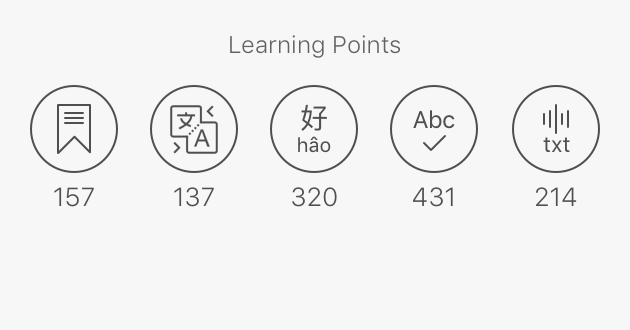
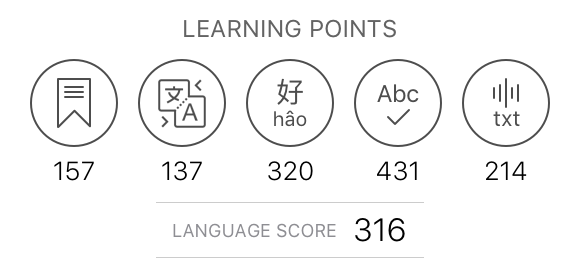
Profile View Updated.

diff --git a/prototype/index.html b/prototype/index.html
@@ -17,6 +17,8 @@
             </div>
         </div>
         <script src="noodlviewer.min.js"></script>
-<script>!function(){"use strict";var e=window.Application;try{var t=new e({runStandalone:!0});t.context.eventEmitter.once("frameEnd",function(){if(document.getElementById){var e=document.getElementById("loading");document.body.removeChild(e)}}),t.setData({"settings":{"canvasWidth":375,"canvasHeight":647,"fillMode":"aspectFit"},"components":[{"name":"/Main","nodes":[{"id":"2d3ccd33-f1ef-2dc5-3e1a-ca9d61cd222b","type":"Group","parameters":{"fill":"parent","sizeMode":"explicit","width":{"value":100,"unit":"%"},"alignX":"left"},"ports":[],"children":[{"id":"fa90ea16-1232-0437-deea-5dd6263d8247","type":"Rectangle","parameters":{"color":"#ffffff"},"ports":[],"children":[]},{"id":"6107ca00-e6b1-bda0-7a37-c1cd75b54717","type":"Scroll View","parameters":{},"ports":[],"children":[{"id":"f6447cc6-04d4-2d6c-0dbc-5b47a649827a","type":"Rectangle","parameters":{"height":{"value":64,"unit":"px"},"color":"#ffffff"},"ports":[],"children":[]},{"id":"4dddfe3e-480f-5664-8acb-3cfecf53d871","type":"Image","version":2,"parameters":{"fillMode":"aspectFit","sizeMode":"explicit","height":{"value":1040,"unit":"px"},"scaleY":1,"clipImage":true,"visible":true},"ports":[],"children":[]},{"id":"9efd95ae-1081-869c-8392-99c4ce6ad7d9","type":"Rectangle","parameters":{"height":{"value":49,"unit":"px"},"color":"#ffffff"},"ports":[],"children":[]}]},{"id":"3660b11b-8a8f-d42b-1298-c7afac4fdae1","type":"Group","version":2,"parameters":{"height":{"value":64,"unit":"px"},"clip":true,"visible":true},"ports":[],"children":[{"id":"dafd72b6-4a73-8ef9-9979-2f5331e38e8f","type":"Scroll View","parameters":{"blockTouch":false,"touchPropagation":false,"scrollToPosition.value":"","scrollToPosition.duration":0,"scrollEnabled":true},"ports":[],"children":[{"id":"fa3c1a90-0eb8-aa5f-32de-be4320c8fa48","type":"Image","version":2,"parameters":{"fillMode":"aspectFit","sizeMode":"explicit","height":{"value":1103.5,"unit":"px"},"scaleY":1,"clipImage":true,"image":"Img/Items Blurred.jpg","visible":true},"ports":[],"children":[]}]},{"id":"69348f9d-c067-fdc4-d726-1c242aa9925c","type":"Image","version":2,"parameters":{"image":"Img/Navigation Bar.png","sizeMode":"explicit","fillMode":"aspectFit","visible":true},"ports":[],"children":[]}]},{"id":"a766f7d1-cfdb-7647-75b1-189841b1a6d2","type":"Group","version":2,"parameters":{"height":{"value":49,"unit":"px"},"clip":true,"visible":true,"alignY":"bottom"},"ports":[],"children":[{"id":"2c4e8b69-a94e-39de-bff8-5c7b93aa087d","type":"Scroll View","parameters":{"blockTouch":false,"touchPropagation":false,"scrollToPosition.value":"","scrollToPosition.duration":0,"scrollEnabled":true},"ports":[],"children":[{"id":"fc56f349-c4c9-c74c-a0cb-d00e6640a8bd","type":"Image","version":2,"parameters":{"fillMode":"aspectFit","sizeMode":"explicit","height":{"value":1103.5,"unit":"px"},"scaleY":1,"clipImage":true,"image":"Img/Items Blurred.jpg","visible":true},"ports":[],"children":[]}]},{"id":"4b5757ce-233e-30cc-c95a-2e1895b5de74","type":"Image","version":2,"parameters":{"image":"Img/Tab Bar.png","sizeMode":"explicit","fillMode":"aspectFit","visible":true},"ports":[],"children":[]}]},{"id":"a867c6cb-1b8e-e1b5-815a-6ec453ce74fd","type":"/Profile View","parameters":{},"ports":[],"children":[]},{"id":"200d7c82-14ad-5297-cc92-e974401f478c","type":"Image","version":2,"parameters":{"image":"Img/Status Bar.png","sizeMode":"explicit","height":{"value":20,"unit":"px"},"fillMode":"aspectFit"},"ports":[],"children":[]}]},{"id":"1f97186e-9bf5-07fe-0e0c-535bb6f73f10","type":"String Selector","parameters":{"input 0":"Img/Items.jpg","input 1":"Img/Items Highlighted.jpg"},"ports":[{"name":"input 0","displayName":"Input 0","type":"string","plug":"input","group":"Inputs","index":3},{"name":"input 1","displayName":"Input 1","type":"string","plug":"input","group":"Inputs","index":4},{"name":"input 2","displayName":"Input 2","type":"string","plug":"input","group":"Inputs","index":5}],"children":[]},{"id":"3123b863-5a0e-b8be-6e6a-a05f01325b9b","type":"Value Changed","parameters":{},"ports":[],"children":[]},{"id":"6e84c28d-44fd-083c-04c3-600e1b538a17","type":"Expression","parameters":{"expression":"-x"},"ports":[{"name":"x","type":{"name":"number"},"plug":"input","index":2}],"children":[]},{"id":"e722cb04-934e-d75e-66ea-6fccedf82f51","type":"Expression","parameters":{"expression":"-x + y - 49"},"ports":[{"name":"x","type":{"name":"number"},"plug":"input","index":2},{"name":"y","type":{"name":"number"},"plug":"input","index":3}],"children":[]},{"id":"7d884370-bca9-592b-4661-dc3676908e75","type":"Screen Resolution","parameters":{},"ports":[],"children":[]},{"id":"54e4f929-5cf8-071c-cf9c-defcf16594be","type":"Switch","parameters":{},"ports":[],"children":[]}],"connections":[{"sourceId":"1f97186e-9bf5-07fe-0e0c-535bb6f73f10","sourcePort":"currentValue","targetId":"4dddfe3e-480f-5664-8acb-3cfecf53d871","targetPort":"image"},{"sourceId":"6107ca00-e6b1-bda0-7a37-c1cd75b54717","sourcePort":"scrollPosition","targetId":"3123b863-5a0e-b8be-6e6a-a05f01325b9b","targetPort":"value"},{"sourceId":"3123b863-5a0e-b8be-6e6a-a05f01325b9b","sourcePort":"valueChanged","targetId":"dafd72b6-4a73-8ef9-9979-2f5331e38e8f","targetPort":"scrollToPosition.do"},{"sourceId":"6107ca00-e6b1-bda0-7a37-c1cd75b54717","sourcePort":"scrollPosition","targetId":"6e84c28d-44fd-083c-04c3-600e1b538a17","targetPort":"x"},{"sourceId":"6e84c28d-44fd-083c-04c3-600e1b538a17","sourcePort":"result","targetId":"dafd72b6-4a73-8ef9-9979-2f5331e38e8f","targetPort":"scrollToPosition.value"},{"sourceId":"6107ca00-e6b1-bda0-7a37-c1cd75b54717","sourcePort":"scrollPosition","targetId":"e722cb04-934e-d75e-66ea-6fccedf82f51","targetPort":"x"},{"sourceId":"3123b863-5a0e-b8be-6e6a-a05f01325b9b","sourcePort":"valueChanged","targetId":"2c4e8b69-a94e-39de-bff8-5c7b93aa087d","targetPort":"scrollToPosition.do"},{"sourceId":"e722cb04-934e-d75e-66ea-6fccedf82f51","sourcePort":"result","targetId":"2c4e8b69-a94e-39de-bff8-5c7b93aa087d","targetPort":"scrollToPosition.value"},{"sourceId":"7d884370-bca9-592b-4661-dc3676908e75","sourcePort":"height","targetId":"e722cb04-934e-d75e-66ea-6fccedf82f51","targetPort":"y"},{"sourceId":"54e4f929-5cf8-071c-cf9c-defcf16594be","sourcePort":"state","targetId":"1f97186e-9bf5-07fe-0e0c-535bb6f73f10","targetPort":"index"},{"sourceId":"4dddfe3e-480f-5664-8acb-3cfecf53d871","sourcePort":"touch.tap","targetId":"a867c6cb-1b8e-e1b5-815a-6ec453ce74fd","targetPort":"Show"}],"ports":[],"roots":["2d3ccd33-f1ef-2dc5-3e1a-ca9d61cd222b"]},{"name":"/Profile View","nodes":[{"id":"d5b70079-84ca-4aed-245e-69016e6fea95","type":"Group","version":2,"parameters":{},"ports":[],"children":[{"id":"89c4ea67-0828-b1ad-a894-1879c85f198d","type":"Rectangle","parameters":{"color":"#000000","opacity":0},"ports":[],"children":[]},{"id":"4da60788-81cd-d628-18e5-8b5109a7f616","type":"Scroll View","parameters":{"sizeMode":"childWidth","alignX":"center","alignY":"top","y":524,"snap":"disabled"},"ports":[],"children":[{"id":"c41be94d-8309-040d-6fa3-8b27937853d8","type":"Rectangle","parameters":{"height":{"value":130,"unit":"px"},"opacity":0},"ports":[],"children":[]},{"id":"4e655fae-c655-90d8-8360-db191ee24d63","type":"Group","version":2,"parameters":{"alignY":"top","alignX":"left","sizeMode":"childSize"},"ports":[],"children":[{"id":"f09a9c3e-58d5-9482-744c-e9834848ff2e","type":"Image","version":2,"parameters":{"image":"Img/Profile View.jpg","sizeMode":"explicit","width":{"value":315,"unit":"px"},"height":{"value":744.5,"unit":"px"},"fillMode":"fill","blockTouch":false,"touchPropagation":false},"ports":[],"children":[]},{"id":"7ded2c0e-e4a9-82bc-d3b0-3997431f612a","type":"Scroll View","parameters":{"height":{"value":165,"unit":"px"},"scrollAxis":"0","clip":true,"snap":"everyItem"},"ports":[],"children":[{"id":"4e83a905-13bf-e492-282a-fceecd505df5","type":"Image","version":2,"parameters":{"image":"Img/Map.png","sizeMode":"explicit","fillMode":"aspectFill","width":{"value":100,"unit":"%"}},"ports":[],"children":[]},{"id":"95c27f35-4ff9-95fd-b6b6-6f77a1665c7e","type":"Image","version":2,"parameters":{"image":"Img/Learning Points.png","sizeMode":"explicit","fillMode":"aspectFill","width":{"value":100,"unit":"%"}},"ports":[],"children":[]}]},{"id":"c6adb02f-c4da-6224-39a0-9dc0585abe12","type":"Image","version":2,"parameters":{"image":"Img/Thumbnail.png","sizeMode":"childSize","scaleX":0.5,"scaleY":0.5,"pivotX":{"value":50,"unit":"%"},"pivotY":{"value":-50,"unit":"%"},"alignX":"center","y":165},"ports":[],"children":[]},{"id":"39eefc2f-4621-6d8f-40bd-9d5a4a7bce24","type":"Rectangle","parameters":{"alignX":"right","width":{"value":55,"unit":"px"},"height":{"value":55,"unit":"px"},"y":165,"opacity":0.01},"ports":[],"children":[]}]},{"id":"5b09a928-b83b-79e3-a439-4806c3c23d2c","type":"Rectangle","parameters":{"height":{"value":30,"unit":"px"},"opacity":0},"ports":[],"children":[]}]},{"id":"5168837f-50f7-784f-6238-a52948a3f57a","type":"Image","version":2,"parameters":{"image":"Img/Top Gradient.png","scaleX":0.5,"scaleY":0.5,"pivotX":{"value":0,"unit":"%"},"pivotY":{"value":0,"unit":"%"},"opacity":0},"ports":[],"children":[]}]},{"id":"bfb62b3b-ea18-3234-0abf-e5e296101a1e","type":"Component Inputs","parameters":{},"ports":[{"name":"Show","plug":"output","type":{"name":"*"},"index":0}],"children":[]},{"id":"962ddc85-4876-a35f-40c1-c5e058106d50","type":"Animation","parameters":{"Open.endValue":0.6,"Show.endValue":0.6,"Overlay Opacity.startMode":"explicit","Overlay Opacity.endValue":0.6,"Profile View Position Y.startMode":"explicit","Profile View Position Y.startValue":524,"duration":400,"Top Gradient Opacity.startMode":"explicit","Top Gradient Opacity.endValue":1,"Opacity.startMode":"explicit","Opacity.startValue":1,"Opacity.endValue":1},"ports":[{"name":"Overlay Opacity","plug":"output","type":{"name":"number"},"group":"Animation Values","index":13},{"name":"Profile View Position Y","plug":"output","type":{"name":"number"},"group":"Animation Values","index":16},{"name":"Top Gradient Opacity","plug":"output","type":{"name":"number"},"group":"Animation Values","index":21},{"name":"Opacity","plug":"output","type":{"name":"number"},"group":"Animation Values","index":25},{"name":"Overlay Opacity.startMode","type":{"name":"enum","enums":[{"value":"explicit","label":"Explicit"},{"value":"implicit","label":"Implicit"}],"allowEditOnly":true},"plug":"input","group":"Overlay Opacity Animation","displayName":"Start Mode","default":"implicit","index":1100},{"name":"Overlay Opacity.startValue","plug":"input","type":"number","displayName":"Start Value","editorName":"Start Value | Overlay Opacity","group":"Overlay Opacity Animation","default":0,"index":1101},{"name":"Overlay Opacity.endValue","type":"number","plug":"input","group":"Overlay Opacity Animation","displayName":"End Value","editorName":"End Value | Overlay Opacity ","default":0,"index":1102},{"name":"Profile View Position Y.startMode","type":{"name":"enum","enums":[{"value":"explicit","label":"Explicit"},{"value":"implicit","label":"Implicit"}],"allowEditOnly":true},"plug":"input","group":"Profile View Position Y Animation","displayName":"Start Mode","default":"implicit","index":1200},{"name":"Profile View Position Y.startValue","plug":"input","type":"number","displayName":"Start Value","editorName":"Start Value | Profile View Position Y","group":"Profile View Position Y Animation","default":0,"index":1201},{"name":"Profile View Position Y.endValue","type":"number","plug":"input","group":"Profile View Position Y Animation","displayName":"End Value","editorName":"End Value | Profile View Position Y ","default":0,"index":1202},{"name":"Top Gradient Opacity.startMode","type":{"name":"enum","enums":[{"value":"explicit","label":"Explicit"},{"value":"implicit","label":"Implicit"}],"allowEditOnly":true},"plug":"input","group":"Top Gradient Opacity Animation","displayName":"Start Mode","default":"implicit","index":1300},{"name":"Top Gradient Opacity.startValue","plug":"input","type":"number","displayName":"Start Value","editorName":"Start Value | Top Gradient Opacity","group":"Top Gradient Opacity Animation","default":0,"index":1301},{"name":"Top Gradient Opacity.endValue","type":"number","plug":"input","group":"Top Gradient Opacity Animation","displayName":"End Value","editorName":"End Value | Top Gradient Opacity ","default":0,"index":1302},{"name":"Opacity.startMode","type":{"name":"enum","enums":[{"value":"explicit","label":"Explicit"},{"value":"implicit","label":"Implicit"}],"allowEditOnly":true},"plug":"input","group":"Opacity Animation","displayName":"Start Mode","default":"implicit","index":1400},{"name":"Opacity.startValue","plug":"input","type":"number","displayName":"Start Value","editorName":"Start Value | Opacity","group":"Opacity Animation","default":0,"index":1401},{"name":"Opacity.endValue","type":"number","plug":"input","group":"Opacity Animation","displayName":"End Value","editorName":"End Value | Opacity ","default":0,"index":1402}],"children":[]},{"id":"f55329f9-627c-44d4-a630-9b8f1f2a0ad8","type":"Event Sender","parameters":{"channelName":"Close Profile View"},"ports":[],"children":[]},{"id":"99ff0756-d552-1740-b830-4b05ccd282df","type":"Expression","parameters":{"expression":"sp < -260"},"ports":[{"name":"sp","type":{"name":"number"},"plug":"input","index":2}],"children":[]},{"id":"b5e1ce03-8953-ec57-7d29-3ea39e793f39","type":"Event Receiver","parameters":{"channelName":"Close Profile View"},"ports":[{"name":"channelName","displayName":"Channel","plug":"input","type":{"name":"enum","allowEditOnly":true,"enums":["Close Profile View","Do Nothing"]},"index":2}],"children":[]},{"id":"043b38f8-4bba-7598-2c25-3640dba58dd2","type":"And","parameters":{},"ports":[{"name":"input 0","displayName":"Input 0","type":"boolean","plug":"input","index":1},{"name":"input 1","displayName":"Input 1","type":"boolean","plug":"input","index":2},{"name":"input 2","displayName":"Input 2","type":"boolean","plug":"input","index":3}],"children":[]},{"id":"67610400-d471-2fa7-5e34-bf7415c29a08","type":"Number Remapper","parameters":{"maxInputValue":130,"minOutputValue":1,"maxOutputValue":0},"ports":[],"children":[]},{"id":"656c46c8-35d7-ffdb-e0e9-a0817b4e7bac","type":"Animation","parameters":{"Open.endValue":0.6,"Show.endValue":0.6,"Overlay Opacity.startMode":"explicit","Overlay Opacity.endValue":0.6,"Profile View Position Y.startMode":"explicit","Profile View Position Y.startValue":524,"duration":400,"Top Gradient Opacity.startMode":"explicit","Top Gradient Opacity.endValue":1,"Opacity.startMode":"explicit","Opacity.endValue":0,"Opacity.startValue":1},"ports":[{"name":"Opacity","plug":"output","type":{"name":"number"},"group":"Animation Values","index":13},{"name":"Opacity.startMode","type":{"name":"enum","enums":[{"value":"explicit","label":"Explicit"},{"value":"implicit","label":"Implicit"}],"allowEditOnly":true},"plug":"input","group":"Opacity Animation","displayName":"Start Mode","default":"implicit","index":1100},{"name":"Opacity.startValue","plug":"input","type":"number","displayName":"Start Value","editorName":"Start Value | Opacity","group":"Opacity Animation","default":0,"index":1101},{"name":"Opacity.endValue","type":"number","plug":"input","group":"Opacity Animation","displayName":"End Value","editorName":"End Value | Opacity ","default":0,"index":1102}],"children":[]},{"id":"7ff531fc-857c-5108-2629-b1e9329dde68","type":"Event Sender","parameters":{"channelName":"Do Nothing"},"ports":[],"children":[]}],"connections":[{"sourceId":"bfb62b3b-ea18-3234-0abf-e5e296101a1e","sourcePort":"Show","targetId":"962ddc85-4876-a35f-40c1-c5e058106d50","targetPort":"replayToEnd"},{"sourceId":"962ddc85-4876-a35f-40c1-c5e058106d50","sourcePort":"Overlay Opacity","targetId":"89c4ea67-0828-b1ad-a894-1879c85f198d","targetPort":"opacity"},{"sourceId":"962ddc85-4876-a35f-40c1-c5e058106d50","sourcePort":"Profile View Position Y","targetId":"4da60788-81cd-d628-18e5-8b5109a7f616","targetPort":"y"},{"sourceId":"4da60788-81cd-d628-18e5-8b5109a7f616","sourcePort":"scrollPosition","targetId":"99ff0756-d552-1740-b830-4b05ccd282df","targetPort":"sp"},{"sourceId":"99ff0756-d552-1740-b830-4b05ccd282df","sourcePort":"result","targetId":"043b38f8-4bba-7598-2c25-3640dba58dd2","targetPort":"input 0"},{"sourceId":"4da60788-81cd-d628-18e5-8b5109a7f616","sourcePort":"touch.exit","targetId":"043b38f8-4bba-7598-2c25-3640dba58dd2","targetPort":"input 1"},{"sourceId":"4e655fae-c655-90d8-8360-db191ee24d63","sourcePort":"screenY","targetId":"67610400-d471-2fa7-5e34-bf7415c29a08","targetPort":"inputValue"},{"sourceId":"67610400-d471-2fa7-5e34-bf7415c29a08","sourcePort":"remappedValue","targetId":"5168837f-50f7-784f-6238-a52948a3f57a","targetPort":"opacity"},{"sourceId":"656c46c8-35d7-ffdb-e0e9-a0817b4e7bac","sourcePort":"Opacity","targetId":"d5b70079-84ca-4aed-245e-69016e6fea95","targetPort":"opacity"},{"sourceId":"b5e1ce03-8953-ec57-7d29-3ea39e793f39","sourcePort":"eventReceived","targetId":"656c46c8-35d7-ffdb-e0e9-a0817b4e7bac","targetPort":"playToEnd"},{"sourceId":"962ddc85-4876-a35f-40c1-c5e058106d50","sourcePort":"Opacity","targetId":"d5b70079-84ca-4aed-245e-69016e6fea95","targetPort":"opacity"},{"sourceId":"656c46c8-35d7-ffdb-e0e9-a0817b4e7bac","sourcePort":"hasReachedEnd","targetId":"4da60788-81cd-d628-18e5-8b5109a7f616","targetPort":"scrollToPosition.do"},{"sourceId":"89c4ea67-0828-b1ad-a894-1879c85f198d","sourcePort":"touch.tap","targetId":"f55329f9-627c-44d4-a630-9b8f1f2a0ad8","targetPort":"sendEvent"},{"sourceId":"39eefc2f-4621-6d8f-40bd-9d5a4a7bce24","sourcePort":"touch.tap","targetId":"f55329f9-627c-44d4-a630-9b8f1f2a0ad8","targetPort":"sendEvent"},{"sourceId":"f09a9c3e-58d5-9482-744c-e9834848ff2e","sourcePort":"touch.tap","targetId":"7ff531fc-857c-5108-2629-b1e9329dde68","targetPort":"sendEvent"}],"ports":[{"name":"Show","type":{"name":"boolean","allowConnectionsOnly":true},"plug":"input"}],"roots":["d5b70079-84ca-4aed-245e-69016e6fea95"]}],"rootComponent":"/Main","rootNode":"2d3ccd33-f1ef-2dc5-3e1a-ca9d61cd222b"})}catch(n){if(!(n instanceof Torped.Errors.NoWebGLSupport))throw n;var o=document.createElement("div");o.style.color="#ffffff",o.innerHTML="WebGL not supported",document.body.appendChild(o)}}();</script>
+<script>!function(){"use strict";var e=window.Application;try{var t=new e({runStandalone:!0});t.context.eventEmitter.once("frameEnd",function(){if(document.getElementById){var e=document.getElementById("loading");document.body.removeChild(e)}}),t.setData({"settings":{"canvasWidth":1080,"canvasHeight":1920,"fillMode":"fill"},"components":[{"name":"/Main","nodes":[{"id":"2d3ccd33-f1ef-2dc5-3e1a-ca9d61cd222b","type":"Group","parameters":{"fill":"parent"},"ports":[],"children":[{"id":"fa90ea16-1232-0437-deea-5dd6263d8247","type":"Rectangle","parameters":{"color":"#000000"},"ports":[],"children":[]},{"id":"63157185-4068-3beb-12b2-c4f877b4dd88","type":"Group","version":2,"parameters":{"width":{"value":320,"unit":"px"},"height":{"value":536,"unit":"px"},"alignX":"center","alignY":"center"},"ports":[],"children":[{"id":"ae9918ce-2c8d-b969-6d5f-2bd4eb2ff440","type":"Image","version":2,"parameters":{"image":"Img/BG.png","scaleX":0.5,"scaleY":0.5,"pivotX":{"value":0,"unit":"%"},"pivotY":{"value":0,"unit":"%"}},"ports":[],"children":[]},{"id":"f92be338-369c-5d8b-42c0-483c8425f9c5","type":"/Profile View","parameters":{},"ports":[],"children":[]}]}]}],"connections":[],"ports":[],"roots":["2d3ccd33-f1ef-2dc5-3e1a-ca9d61cd222b"]},{"name":"/Profile View","nodes":[{"id":"1ae67c8a-46b2-2ebf-6385-2e026c3d3cde","type":"Group","version":2,"parameters":{},"ports":[],"children":[{"id":"3c751100-5ea2-fa49-9b66-eeaf93f2ffa6","type":"Rectangle","parameters":{"opacity":0.001},"ports":[],"children":[]},{"id":"5500cab7-3c04-197d-3239-3181993f20b0","type":"Scroll View","parameters":{"clip":true,"snap":"disabled","sizeMode":"explicit","scrollStartPosition":"","scrollEnabled":true},"ports":[],"children":[{"id":"6112c522-1b50-d29c-2e8b-3bab7248db5a","type":"Stack Layout","parameters":{"sizeMode":"childSize"},"ports":[],"children":[{"id":"55c9db5c-8121-be87-eb88-98da8a78799d","type":"Rectangle","parameters":{"height":{"value":79,"unit":"px"},"visible":false},"ports":[],"children":[]},{"id":"32169964-4ebf-3a45-fd50-c8678bf2851e","type":"Group","version":2,"parameters":{"sizeMode":"childSize"},"ports":[],"children":[{"id":"558eb879-7187-e4c2-7697-7dd1566e59e1","type":"Image","version":2,"parameters":{"image":"Img/Profile View.png","alignX":"left","x":15,"sizeMode":"explicit","width":{"value":290,"unit":"px"},"height":{"value":793,"unit":"px"},"fillMode":"aspectFit"},"ports":[],"children":[]},{"id":"9e228247-9003-d721-9dcc-d0d7b1cb20ae","type":"Scroll View","parameters":{"height":{"value":129,"unit":"px"},"width":{"value":290,"unit":"px"},"x":15,"y":237.5,"snap":"everyItem","scrollAxis":"0","clip":true},"ports":[],"children":[{"id":"8d643d97-e7c8-58e1-f672-296f6b7ff5f8","type":"Image","version":2,"parameters":{"image":"Img/Basic.png","sizeMode":"explicit","fillMode":"aspectFit"},"ports":[],"children":[]},{"id":"cfaed9c1-9010-82c8-0992-2cb743448b85","type":"Image","version":2,"parameters":{"image":"Img/Learning Points.png","sizeMode":"explicit","fillMode":"aspectFit"},"ports":[],"children":[]}]},{"id":"256a4901-aeb9-bd93-d73b-d18186a4ec1b","type":"Rectangle","parameters":{"width":{"value":44,"unit":"px"},"height":{"value":44,"unit":"px"},"alignX":"right","y":165,"visible":false},"ports":[],"children":[]},{"id":"99279773-af8c-dfd2-c887-51950331db80","type":"Image","version":2,"parameters":{"sizeMode":"childSize","image":"Img/Next Paged.png","pivotX":{"value":0,"unit":"%"},"pivotY":{"value":0,"unit":"%"},"scaleX":0.5,"scaleY":0.5,"alignX":"left","x":146,"y":379,"visible":true},"ports":[],"children":[]}]},{"id":"66070757-0d74-81dd-3ea9-46585b0dc0f0","type":"Rectangle","parameters":{"height":{"value":15,"unit":"px"},"visible":false},"ports":[],"children":[]}]}]}]},{"id":"9cbe82e9-213d-1a3a-2a11-c08522b87007","type":"Expression","parameters":{"expression":"-sp > (w / 2)"},"ports":[{"name":"sp","type":{"name":"number"},"plug":"input","index":2},{"name":"w","type":{"name":"number"},"plug":"input","index":3}],"children":[]}],"connections":[{"sourceId":"9e228247-9003-d721-9dcc-d0d7b1cb20ae","sourcePort":"width","targetId":"9cbe82e9-213d-1a3a-2a11-c08522b87007","targetPort":"w"},{"sourceId":"9e228247-9003-d721-9dcc-d0d7b1cb20ae","sourcePort":"scrollPosition","targetId":"9cbe82e9-213d-1a3a-2a11-c08522b87007","targetPort":"sp"},{"sourceId":"9cbe82e9-213d-1a3a-2a11-c08522b87007","sourcePort":"result","targetId":"99279773-af8c-dfd2-c887-51950331db80","targetPort":"visible"}],"ports":[],"roots":["1ae67c8a-46b2-2ebf-6385-2e026c3d3cde"]}],"rootComponent":"/Main","rootNode":"2d3ccd33-f1ef-2dc5-3e1a-ca9d61cd222b"})}catch(n){if(!(n instanceof Torped.Errors.NoWebGLSupport))throw n;var o=document.createElement("div");o.style.color="#ffffff",o.innerHTML="WebGL not supported",document.body.appendChild(o)}}();</script>
+    </body>
+</html>"currentValue","targetId":"4dddfe3e-480f-5664-8acb-3cfecf53d871","targetPort":"image"},{"sourceId":"6107ca00-e6b1-bda0-7a37-c1cd75b54717","sourcePort":"scrollPosition","targetId":"3123b863-5a0e-b8be-6e6a-a05f01325b9b","targetPort":"value"},{"sourceId":"3123b863-5a0e-b8be-6e6a-a05f01325b9b","sourcePort":"valueChanged","targetId":"dafd72b6-4a73-8ef9-9979-2f5331e38e8f","targetPort":"scrollToPosition.do"},{"sourceId":"6107ca00-e6b1-bda0-7a37-c1cd75b54717","sourcePort":"scrollPosition","targetId":"6e84c28d-44fd-083c-04c3-600e1b538a17","targetPort":"x"},{"sourceId":"6e84c28d-44fd-083c-04c3-600e1b538a17","sourcePort":"result","targetId":"dafd72b6-4a73-8ef9-9979-2f5331e38e8f","targetPort":"scrollToPosition.value"},{"sourceId":"6107ca00-e6b1-bda0-7a37-c1cd75b54717","sourcePort":"scrollPosition","targetId":"e722cb04-934e-d75e-66ea-6fccedf82f51","targetPort":"x"},{"sourceId":"3123b863-5a0e-b8be-6e6a-a05f01325b9b","sourcePort":"valueChanged","targetId":"2c4e8b69-a94e-39de-bff8-5c7b93aa087d","targetPort":"scrollToPosition.do"},{"sourceId":"e722cb04-934e-d75e-66ea-6fccedf82f51","sourcePort":"result","targetId":"2c4e8b69-a94e-39de-bff8-5c7b93aa087d","targetPort":"scrollToPosition.value"},{"sourceId":"7d884370-bca9-592b-4661-dc3676908e75","sourcePort":"height","targetId":"e722cb04-934e-d75e-66ea-6fccedf82f51","targetPort":"y"},{"sourceId":"54e4f929-5cf8-071c-cf9c-defcf16594be","sourcePort":"state","targetId":"1f97186e-9bf5-07fe-0e0c-535bb6f73f10","targetPort":"index"},{"sourceId":"4dddfe3e-480f-5664-8acb-3cfecf53d871","sourcePort":"touch.tap","targetId":"a867c6cb-1b8e-e1b5-815a-6ec453ce74fd","targetPort":"Show"}],"ports":[],"roots":["2d3ccd33-f1ef-2dc5-3e1a-ca9d61cd222b"]},{"name":"/Profile View","nodes":[{"id":"d5b70079-84ca-4aed-245e-69016e6fea95","type":"Group","version":2,"parameters":{},"ports":[],"children":[{"id":"89c4ea67-0828-b1ad-a894-1879c85f198d","type":"Rectangle","parameters":{"color":"#000000","opacity":0},"ports":[],"children":[]},{"id":"4da60788-81cd-d628-18e5-8b5109a7f616","type":"Scroll View","parameters":{"sizeMode":"childWidth","alignX":"center","alignY":"top","y":524,"snap":"disabled"},"ports":[],"children":[{"id":"c41be94d-8309-040d-6fa3-8b27937853d8","type":"Rectangle","parameters":{"height":{"value":130,"unit":"px"},"opacity":0},"ports":[],"children":[]},{"id":"4e655fae-c655-90d8-8360-db191ee24d63","type":"Group","version":2,"parameters":{"alignY":"top","alignX":"left","sizeMode":"childSize"},"ports":[],"children":[{"id":"f09a9c3e-58d5-9482-744c-e9834848ff2e","type":"Image","version":2,"parameters":{"image":"Img/Profile View.jpg","sizeMode":"explicit","width":{"value":315,"unit":"px"},"height":{"value":744.5,"unit":"px"},"fillMode":"fill","blockTouch":false,"touchPropagation":false},"ports":[],"children":[]},{"id":"7ded2c0e-e4a9-82bc-d3b0-3997431f612a","type":"Scroll View","parameters":{"height":{"value":165,"unit":"px"},"scrollAxis":"0","clip":true,"snap":"everyItem"},"ports":[],"children":[{"id":"4e83a905-13bf-e492-282a-fceecd505df5","type":"Image","version":2,"parameters":{"image":"Img/Map.png","sizeMode":"explicit","fillMode":"aspectFill","width":{"value":100,"unit":"%"}},"ports":[],"children":[]},{"id":"95c27f35-4ff9-95fd-b6b6-6f77a1665c7e","type":"Image","version":2,"parameters":{"image":"Img/Learning Points.png","sizeMode":"explicit","fillMode":"aspectFill","width":{"value":100,"unit":"%"}},"ports":[],"children":[]}]},{"id":"c6adb02f-c4da-6224-39a0-9dc0585abe12","type":"Image","version":2,"parameters":{"image":"Img/Thumbnail.png","sizeMode":"childSize","scaleX":0.5,"scaleY":0.5,"pivotX":{"value":50,"unit":"%"},"pivotY":{"value":-50,"unit":"%"},"alignX":"center","y":165},"ports":[],"children":[]},{"id":"39eefc2f-4621-6d8f-40bd-9d5a4a7bce24","type":"Rectangle","parameters":{"alignX":"right","width":{"value":55,"unit":"px"},"height":{"value":55,"unit":"px"},"y":165,"opacity":0.01},"ports":[],"children":[]}]},{"id":"5b09a928-b83b-79e3-a439-4806c3c23d2c","type":"Rectangle","parameters":{"height":{"value":30,"unit":"px"},"opacity":0},"ports":[],"children":[]}]},{"id":"5168837f-50f7-784f-6238-a52948a3f57a","type":"Image","version":2,"parameters":{"image":"Img/Top Gradient.png","scaleX":0.5,"scaleY":0.5,"pivotX":{"value":0,"unit":"%"},"pivotY":{"value":0,"unit":"%"},"opacity":0},"ports":[],"children":[]}]},{"id":"bfb62b3b-ea18-3234-0abf-e5e296101a1e","type":"Component Inputs","parameters":{},"ports":[{"name":"Show","plug":"output","type":{"name":"*"},"index":0}],"children":[]},{"id":"962ddc85-4876-a35f-40c1-c5e058106d50","type":"Animation","parameters":{"Open.endValue":0.6,"Show.endValue":0.6,"Overlay Opacity.startMode":"explicit","Overlay Opacity.endValue":0.6,"Profile View Position Y.startMode":"explicit","Profile View Position Y.startValue":524,"duration":400,"Top Gradient Opacity.startMode":"explicit","Top Gradient Opacity.endValue":1,"Opacity.startMode":"explicit","Opacity.startValue":1,"Opacity.endValue":1},"ports":[{"name":"Overlay Opacity","plug":"output","type":{"name":"number"},"group":"Animation Values","index":13},{"name":"Profile View Position Y","plug":"output","type":{"name":"number"},"group":"Animation Values","index":16},{"name":"Top Gradient Opacity","plug":"output","type":{"name":"number"},"group":"Animation Values","index":21},{"name":"Opacity","plug":"output","type":{"name":"number"},"group":"Animation Values","index":25},{"name":"Overlay Opacity.startMode","type":{"name":"enum","enums":[{"value":"explicit","label":"Explicit"},{"value":"implicit","label":"Implicit"}],"allowEditOnly":true},"plug":"input","group":"Overlay Opacity Animation","displayName":"Start Mode","default":"implicit","index":1100},{"name":"Overlay Opacity.startValue","plug":"input","type":"number","displayName":"Start Value","editorName":"Start Value | Overlay Opacity","group":"Overlay Opacity Animation","default":0,"index":1101},{"name":"Overlay Opacity.endValue","type":"number","plug":"input","group":"Overlay Opacity Animation","displayName":"End Value","editorName":"End Value | Overlay Opacity ","default":0,"index":1102},{"name":"Profile View Position Y.startMode","type":{"name":"enum","enums":[{"value":"explicit","label":"Explicit"},{"value":"implicit","label":"Implicit"}],"allowEditOnly":true},"plug":"input","group":"Profile View Position Y Animation","displayName":"Start Mode","default":"implicit","index":1200},{"name":"Profile View Position Y.startValue","plug":"input","type":"number","displayName":"Start Value","editorName":"Start Value | Profile View Position Y","group":"Profile View Position Y Animation","default":0,"index":1201},{"name":"Profile View Position Y.endValue","type":"number","plug":"input","group":"Profile View Position Y Animation","displayName":"End Value","editorName":"End Value | Profile View Position Y ","default":0,"index":1202},{"name":"Top Gradient Opacity.startMode","type":{"name":"enum","enums":[{"value":"explicit","label":"Explicit"},{"value":"implicit","label":"Implicit"}],"allowEditOnly":true},"plug":"input","group":"Top Gradient Opacity Animation","displayName":"Start Mode","default":"implicit","index":1300},{"name":"Top Gradient Opacity.startValue","plug":"input","type":"number","displayName":"Start Value","editorName":"Start Value | Top Gradient Opacity","group":"Top Gradient Opacity Animation","default":0,"index":1301},{"name":"Top Gradient Opacity.endValue","type":"number","plug":"input","group":"Top Gradient Opacity Animation","displayName":"End Value","editorName":"End Value | Top Gradient Opacity ","default":0,"index":1302},{"name":"Opacity.startMode","type":{"name":"enum","enums":[{"value":"explicit","label":"Explicit"},{"value":"implicit","label":"Implicit"}],"allowEditOnly":true},"plug":"input","group":"Opacity Animation","displayName":"Start Mode","default":"implicit","index":1400},{"name":"Opacity.startValue","plug":"input","type":"number","displayName":"Start Value","editorName":"Start Value | Opacity","group":"Opacity Animation","default":0,"index":1401},{"name":"Opacity.endValue","type":"number","plug":"input","group":"Opacity Animation","displayName":"End Value","editorName":"End Value | Opacity ","default":0,"index":1402}],"children":[]},{"id":"f55329f9-627c-44d4-a630-9b8f1f2a0ad8","type":"Event Sender","parameters":{"channelName":"Close Profile View"},"ports":[],"children":[]},{"id":"99ff0756-d552-1740-b830-4b05ccd282df","type":"Expression","parameters":{"expression":"sp < -260"},"ports":[{"name":"sp","type":{"name":"number"},"plug":"input","index":2}],"children":[]},{"id":"b5e1ce03-8953-ec57-7d29-3ea39e793f39","type":"Event Receiver","parameters":{"channelName":"Close Profile View"},"ports":[{"name":"channelName","displayName":"Channel","plug":"input","type":{"name":"enum","allowEditOnly":true,"enums":["Close Profile View","Do Nothing"]},"index":2}],"children":[]},{"id":"043b38f8-4bba-7598-2c25-3640dba58dd2","type":"And","parameters":{},"ports":[{"name":"input 0","displayName":"Input 0","type":"boolean","plug":"input","index":1},{"name":"input 1","displayName":"Input 1","type":"boolean","plug":"input","index":2},{"name":"input 2","displayName":"Input 2","type":"boolean","plug":"input","index":3}],"children":[]},{"id":"67610400-d471-2fa7-5e34-bf7415c29a08","type":"Number Remapper","parameters":{"maxInputValue":130,"minOutputValue":1,"maxOutputValue":0},"ports":[],"children":[]},{"id":"656c46c8-35d7-ffdb-e0e9-a0817b4e7bac","type":"Animation","parameters":{"Open.endValue":0.6,"Show.endValue":0.6,"Overlay Opacity.startMode":"explicit","Overlay Opacity.endValue":0.6,"Profile View Position Y.startMode":"explicit","Profile View Position Y.startValue":524,"duration":400,"Top Gradient Opacity.startMode":"explicit","Top Gradient Opacity.endValue":1,"Opacity.startMode":"explicit","Opacity.endValue":0,"Opacity.startValue":1},"ports":[{"name":"Opacity","plug":"output","type":{"name":"number"},"group":"Animation Values","index":13},{"name":"Opacity.startMode","type":{"name":"enum","enums":[{"value":"explicit","label":"Explicit"},{"value":"implicit","label":"Implicit"}],"allowEditOnly":true},"plug":"input","group":"Opacity Animation","displayName":"Start Mode","default":"implicit","index":1100},{"name":"Opacity.startValue","plug":"input","type":"number","displayName":"Start Value","editorName":"Start Value | Opacity","group":"Opacity Animation","default":0,"index":1101},{"name":"Opacity.endValue","type":"number","plug":"input","group":"Opacity Animation","displayName":"End Value","editorName":"End Value | Opacity ","default":0,"index":1102}],"children":[]},{"id":"7ff531fc-857c-5108-2629-b1e9329dde68","type":"Event Sender","parameters":{"channelName":"Do Nothing"},"ports":[],"children":[]}],"connections":[{"sourceId":"bfb62b3b-ea18-3234-0abf-e5e296101a1e","sourcePort":"Show","targetId":"962ddc85-4876-a35f-40c1-c5e058106d50","targetPort":"replayToEnd"},{"sourceId":"962ddc85-4876-a35f-40c1-c5e058106d50","sourcePort":"Overlay Opacity","targetId":"89c4ea67-0828-b1ad-a894-1879c85f198d","targetPort":"opacity"},{"sourceId":"962ddc85-4876-a35f-40c1-c5e058106d50","sourcePort":"Profile View Position Y","targetId":"4da60788-81cd-d628-18e5-8b5109a7f616","targetPort":"y"},{"sourceId":"4da60788-81cd-d628-18e5-8b5109a7f616","sourcePort":"scrollPosition","targetId":"99ff0756-d552-1740-b830-4b05ccd282df","targetPort":"sp"},{"sourceId":"99ff0756-d552-1740-b830-4b05ccd282df","sourcePort":"result","targetId":"043b38f8-4bba-7598-2c25-3640dba58dd2","targetPort":"input 0"},{"sourceId":"4da60788-81cd-d628-18e5-8b5109a7f616","sourcePort":"touch.exit","targetId":"043b38f8-4bba-7598-2c25-3640dba58dd2","targetPort":"input 1"},{"sourceId":"4e655fae-c655-90d8-8360-db191ee24d63","sourcePort":"screenY","targetId":"67610400-d471-2fa7-5e34-bf7415c29a08","targetPort":"inputValue"},{"sourceId":"67610400-d471-2fa7-5e34-bf7415c29a08","sourcePort":"remappedValue","targetId":"5168837f-50f7-784f-6238-a52948a3f57a","targetPort":"opacity"},{"sourceId":"656c46c8-35d7-ffdb-e0e9-a0817b4e7bac","sourcePort":"Opacity","targetId":"d5b70079-84ca-4aed-245e-69016e6fea95","targetPort":"opacity"},{"sourceId":"b5e1ce03-8953-ec57-7d29-3ea39e793f39","sourcePort":"eventReceived","targetId":"656c46c8-35d7-ffdb-e0e9-a0817b4e7bac","targetPort":"playToEnd"},{"sourceId":"962ddc85-4876-a35f-40c1-c5e058106d50","sourcePort":"Opacity","targetId":"d5b70079-84ca-4aed-245e-69016e6fea95","targetPort":"opacity"},{"sourceId":"656c46c8-35d7-ffdb-e0e9-a0817b4e7bac","sourcePort":"hasReachedEnd","targetId":"4da60788-81cd-d628-18e5-8b5109a7f616","targetPort":"scrollToPosition.do"},{"sourceId":"89c4ea67-0828-b1ad-a894-1879c85f198d","sourcePort":"touch.tap","targetId":"f55329f9-627c-44d4-a630-9b8f1f2a0ad8","targetPort":"sendEvent"},{"sourceId":"39eefc2f-4621-6d8f-40bd-9d5a4a7bce24","sourcePort":"touch.tap","targetId":"f55329f9-627c-44d4-a630-9b8f1f2a0ad8","targetPort":"sendEvent"},{"sourceId":"f09a9c3e-58d5-9482-744c-e9834848ff2e","sourcePort":"touch.tap","targetId":"7ff531fc-857c-5108-2629-b1e9329dde68","targetPort":"sendEvent"}],"ports":[{"name":"Show","type":{"name":"boolean","allowConnectionsOnly":true},"plug":"input"}],"roots":["d5b70079-84ca-4aed-245e-69016e6fea95"]}],"rootComponent":"/Main","rootNode":"2d3ccd33-f1ef-2dc5-3e1a-ca9d61cd222b"})}catch(n){if(!(n instanceof Torped.Errors.NoWebGLSupport))throw n;var o=document.createElement("div");o.style.color="#ffffff",o.innerHTML="WebGL not supported",document.body.appendChild(o)}}();</script>
     </body>
 </html>
